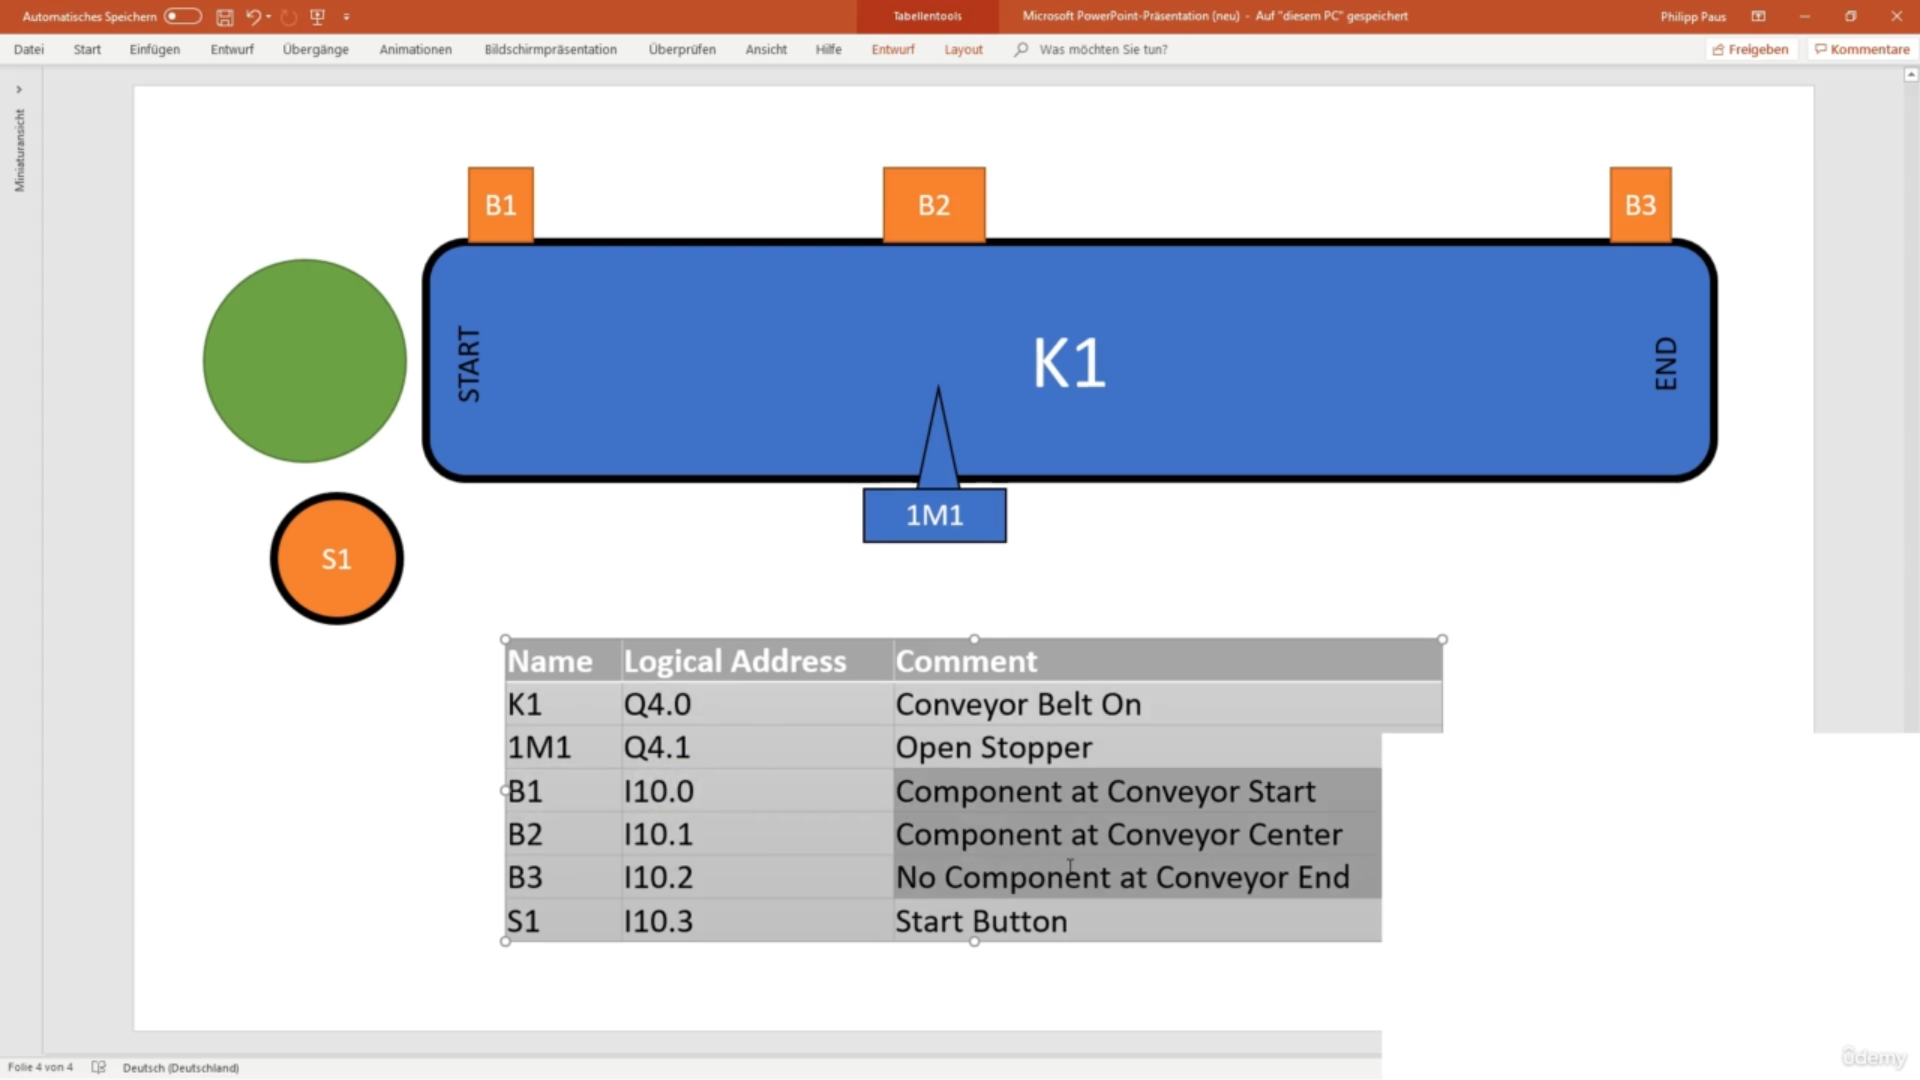
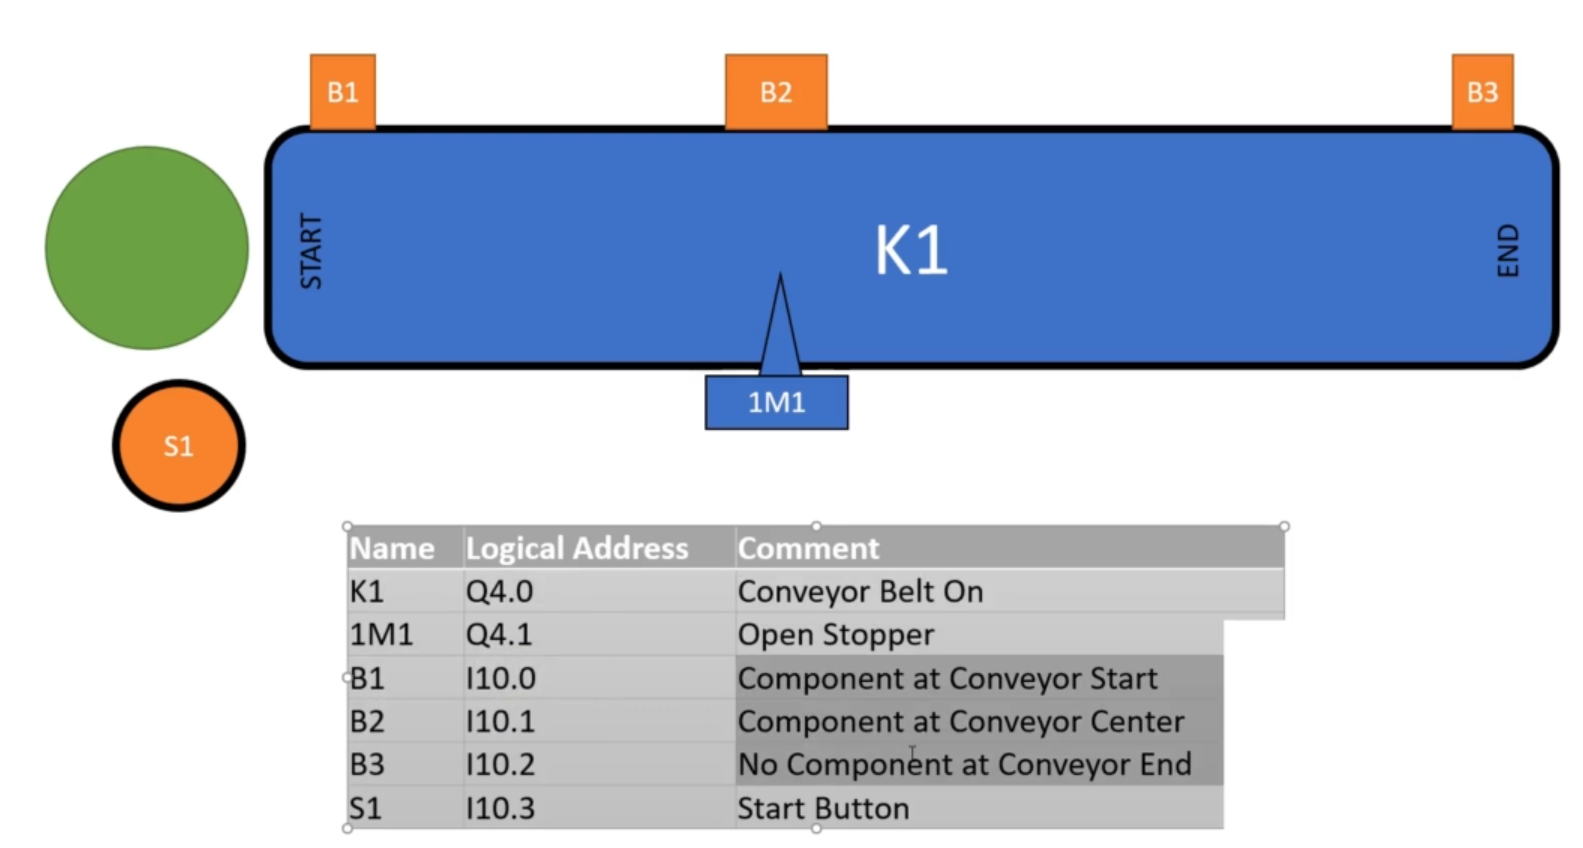
Rename lesson file to README.md for better structure

diff --git a/Lessons/Lesson-01/lession.md b/Lessons/Lesson-01/lession.md
@@ -24,6 +24,7 @@ In this section, I learned how to:
 
 📸 Example:
 ![Hardware Configuration](1.png)
+![Hardware Configuration](2.png)
 
 ---
 
@@ -36,7 +37,7 @@ I explored the PLC properties and settings, including:
 * General PLC information
 
 📸 Example:
-![PLC Properties](4 propietati plc.png)
+![PLC Properties](4.png)
 
 ---
 
@@ -49,10 +50,10 @@ Example:
 * Sensor connected to input **I10.0**
 
 📸 Example:
-![Digital Inputs](3 intrari digitale.png)
+![Digital Inputs](3.png)
 
 📸 Sensor Example:
-![Sensor I10.0](5 senzor I10.0.png)
+![Sensor I10.0](5.png)
 
 ---
 
@@ -76,9 +77,9 @@ I learned how to:
 * Organize tags efficiently
 
 📸 Examples:
-![Constants](7 Tags - constante.png)
+![Constants](7.png)
 
-![Complete Tags](8 taguri complete.png)
+![Complete Tags](8.png)
 
 ---
 